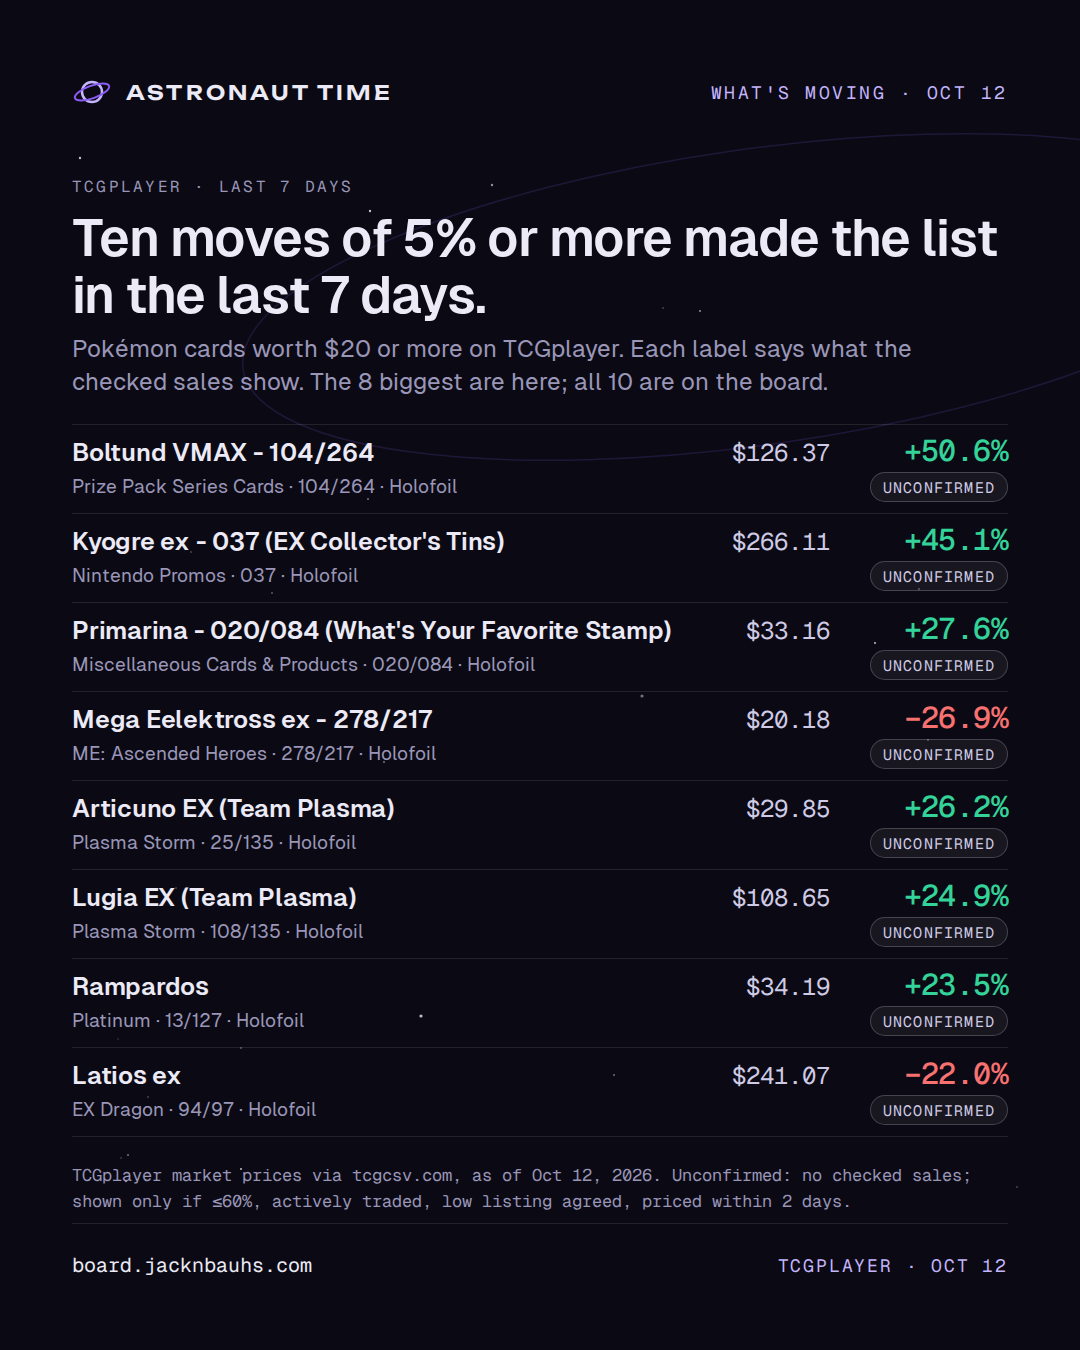
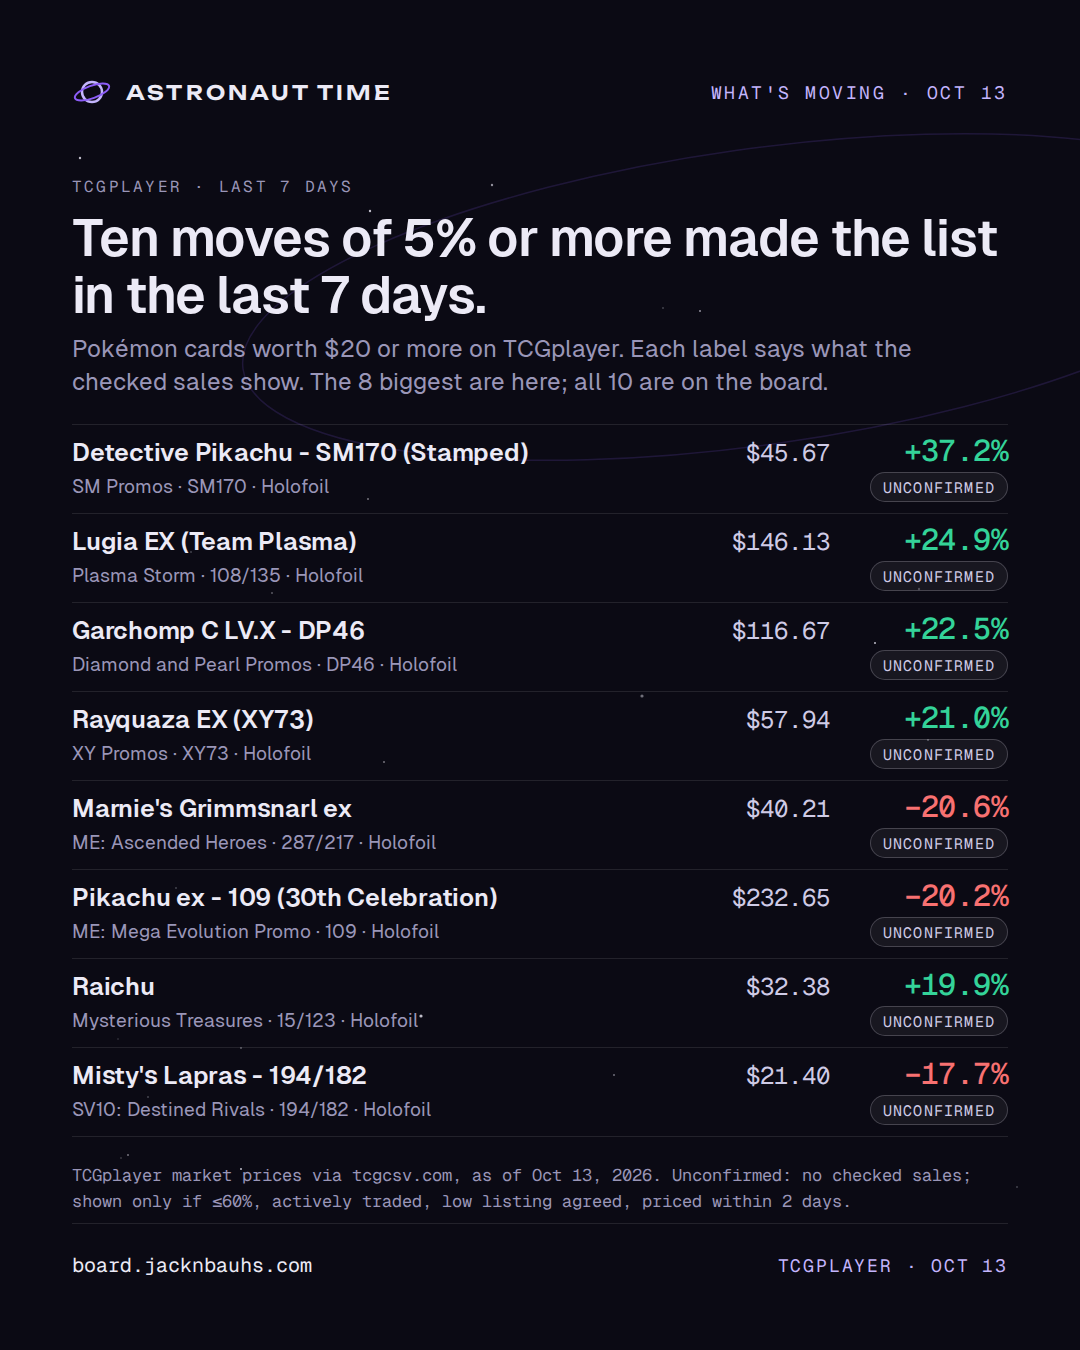
Share kit: render 2026-10-14

diff --git a/card.html b/card.html
@@ -10,14 +10,14 @@
 <meta property="og:url" content="https://board.jacknbauhs.com/card.html">
 <meta property="og:type" content="website">
 <meta property="og:site_name" content="Astronaut Time">
-<meta property="og:image" content="https://board.jacknbauhs.com/assets/og.png?v=2026-10-13">
+<meta property="og:image" content="https://board.jacknbauhs.com/assets/og.png?v=2026-10-14">
 <meta property="og:image:width" content="1200">
 <meta property="og:image:height" content="630">
 <meta property="og:image:alt" content="Mission Control by Astronaut Time: the card market, with the fake sales taken out.">
 <meta name="twitter:card" content="summary_large_image">
 <meta name="twitter:title" content="Card · Mission Control · Astronaut Time">
 <meta name="twitter:description" content="The card market, with the fake sales taken out.">
-<meta name="twitter:image" content="https://board.jacknbauhs.com/assets/og.png?v=2026-10-13">
+<meta name="twitter:image" content="https://board.jacknbauhs.com/assets/og.png?v=2026-10-14">
 <meta name="theme-color" content="#0B0A14">
 <link rel="icon" href="assets/favicon.svg" type="image/svg+xml">
 <link rel="preconnect" href="https://fonts.googleapis.com">

diff --git a/404.html b/404.html
@@ -10,14 +10,14 @@
 <meta property="og:url" content="https://board.jacknbauhs.com/">
 <meta property="og:type" content="website">
 <meta property="og:site_name" content="Astronaut Time">
-<meta property="og:image" content="https://board.jacknbauhs.com/assets/og.png?v=2026-10-13">
+<meta property="og:image" content="https://board.jacknbauhs.com/assets/og.png?v=2026-10-14">
 <meta property="og:image:width" content="1200">
 <meta property="og:image:height" content="630">
 <meta property="og:image:alt" content="Mission Control by Astronaut Time: the card market, with the fake sales taken out.">
 <meta name="twitter:card" content="summary_large_image">
 <meta name="twitter:title" content="Mission Control · Astronaut Time">
 <meta name="twitter:description" content="The card market, with the fake sales taken out.">
-<meta name="twitter:image" content="https://board.jacknbauhs.com/assets/og.png?v=2026-10-13">
+<meta name="twitter:image" content="https://board.jacknbauhs.com/assets/og.png?v=2026-10-14">
 <meta name="theme-color" content="#0B0A14">
 <link rel="icon" href="/assets/favicon.svg" type="image/svg+xml">
 <link rel="preconnect" href="https://fonts.googleapis.com">

diff --git a/index.html b/index.html
@@ -10,14 +10,14 @@
 <meta property="og:url" content="https://board.jacknbauhs.com/">
 <meta property="og:type" content="website">
 <meta property="og:site_name" content="Astronaut Time">
-<meta property="og:image" content="https://board.jacknbauhs.com/assets/og.png?v=2026-10-13">
+<meta property="og:image" content="https://board.jacknbauhs.com/assets/og.png?v=2026-10-14">
 <meta property="og:image:width" content="1200">
 <meta property="og:image:height" content="630">
 <meta property="og:image:alt" content="Mission Control by Astronaut Time: the card market, with the fake sales taken out.">
 <meta name="twitter:card" content="summary_large_image">
 <meta name="twitter:title" content="Mission Control · Astronaut Time">
 <meta name="twitter:description" content="The card market, with the fake sales taken out.">
-<meta name="twitter:image" content="https://board.jacknbauhs.com/assets/og.png?v=2026-10-13">
+<meta name="twitter:image" content="https://board.jacknbauhs.com/assets/og.png?v=2026-10-14">
 <meta name="theme-color" content="#0B0A14">
 <link rel="icon" href="assets/favicon.svg" type="image/svg+xml">
 <link rel="preconnect" href="https://fonts.googleapis.com">

diff --git a/share/out/captions.md b/share/out/captions.md
@@ -1,10 +1,10 @@
-# Captions, board data of 2026-10-13
+# Captions, board data of 2026-10-14
 
 One block per image. Caption first, alt text second. Plain facts, the source and the board link; nothing here is a buy.
 
 ## Before you post
 
-- ✅ Prices are from Oct 12, 2026.
+- ✅ Prices are from Oct 13, 2026.
 - ⚠ All 10 on the 7-day list are unconfirmed: no checked sale behind any. Keep "unconfirmed" in the post and call them price moves, not sales.
 - ⚠ All 10 on the since-yesterday list are unconfirmed: no checked sale behind any. Keep "unconfirmed" in the post and call them price moves, not sales.
 
@@ -46,6 +46,6 @@ Alt: Three calls on the record. Number 001: The 30th Celebration Booster Bundle'
 
 ## moving-2026-W42.png
 
-What's moving on TCGplayer, as of Oct 12, 2026. Ten moves of 5% or more made the list in the last 7 days. Boltund VMAX - 104/264 (Prize Pack Series Cards · 104/264 · Holofoil): $126.37, +50.6%, unconfirmed. Kyogre ex - 037 (EX Collector's Tins) (Nintendo Promos · 037 · Holofoil): $266.11, +45.1%, unconfirmed. Primarina - 020/084 (What's Your Favorite Stamp) (Miscellaneous Cards & Products · 020/084 · Holofoil): $33.16, +27.6%, unconfirmed. Mega Eelektross ex - 278/217 (ME: Ascended Heroes · 278/217 · Holofoil): $20.18, −26.9%, unconfirmed. Articuno EX (Team Plasma) (Plasma Storm · 25/135 · Holofoil): $29.85, +26.2%, unconfirmed. Lugia EX (Team Plasma) (Plasma Storm · 108/135 · Holofoil): $108.65, +24.9%, unconfirmed. Rampardos (Platinum · 13/127 · Holofoil): $34.19, +23.5%, unconfirmed. Latios ex (EX Dragon · 94/97 · Holofoil): $241.07, −22.0%, unconfirmed. Unconfirmed: no checked sales; shown only if ≤60%, actively traded, low listing agreed, priced within 2 days. Source: TCGplayer market prices via tcgcsv.com, as of Oct 12, 2026. board.jacknbauhs.com
+What's moving on TCGplayer, as of Oct 13, 2026. Ten moves of 5% or more made the list in the last 7 days. Detective Pikachu - SM170 (Stamped) (SM Promos · SM170 · Holofoil): $45.67, +37.2%, unconfirmed. Lugia EX (Team Plasma) (Plasma Storm · 108/135 · Holofoil): $146.13, +24.9%, unconfirmed. Garchomp C LV.X - DP46 (Diamond and Pearl Promos · DP46 · Holofoil): $116.67, +22.5%, unconfirmed. Rayquaza EX (XY73) (XY Promos · XY73 · Holofoil): $57.94, +21.0%, unconfirmed. Marnie's Grimmsnarl ex (ME: Ascended Heroes · 287/217 · Holofoil): $40.21, −20.6%, unconfirmed. Pikachu ex - 109 (30th Celebration) (ME: Mega Evolution Promo · 109 · Holofoil): $232.65, −20.2%, unconfirmed. Raichu (Mysterious Treasures · 15/123 · Holofoil): $32.38, +19.9%, unconfirmed. Misty's Lapras - 194/182 (SV10: Destined Rivals · 194/182 · Holofoil): $21.40, −17.7%, unconfirmed. Unconfirmed: no checked sales; shown only if ≤60%, actively traded, low listing agreed, priced within 2 days. Source: TCGplayer market prices via tcgcsv.com, as of Oct 13, 2026. board.jacknbauhs.com
 
 Alt: What's moving: the 8 biggest of the 10 TCGplayer moves on the list in the last 7 days, each with its market price, its change and the label for what checked sales show.
